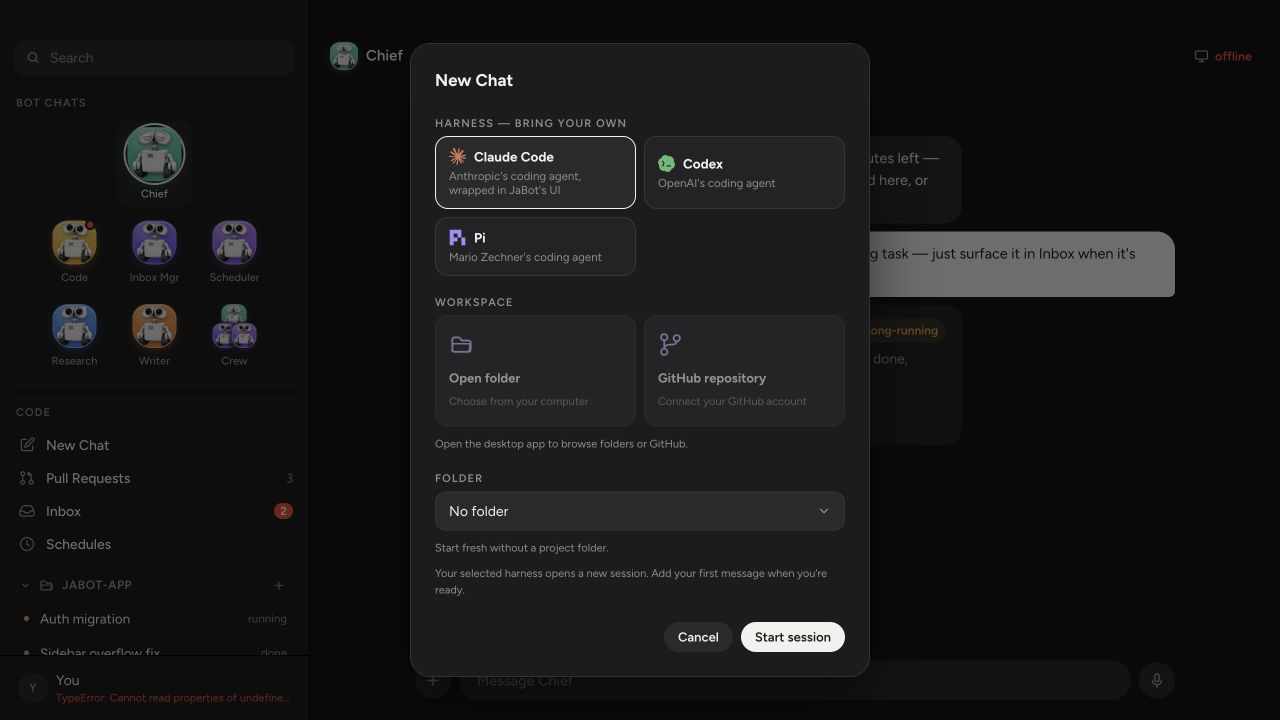
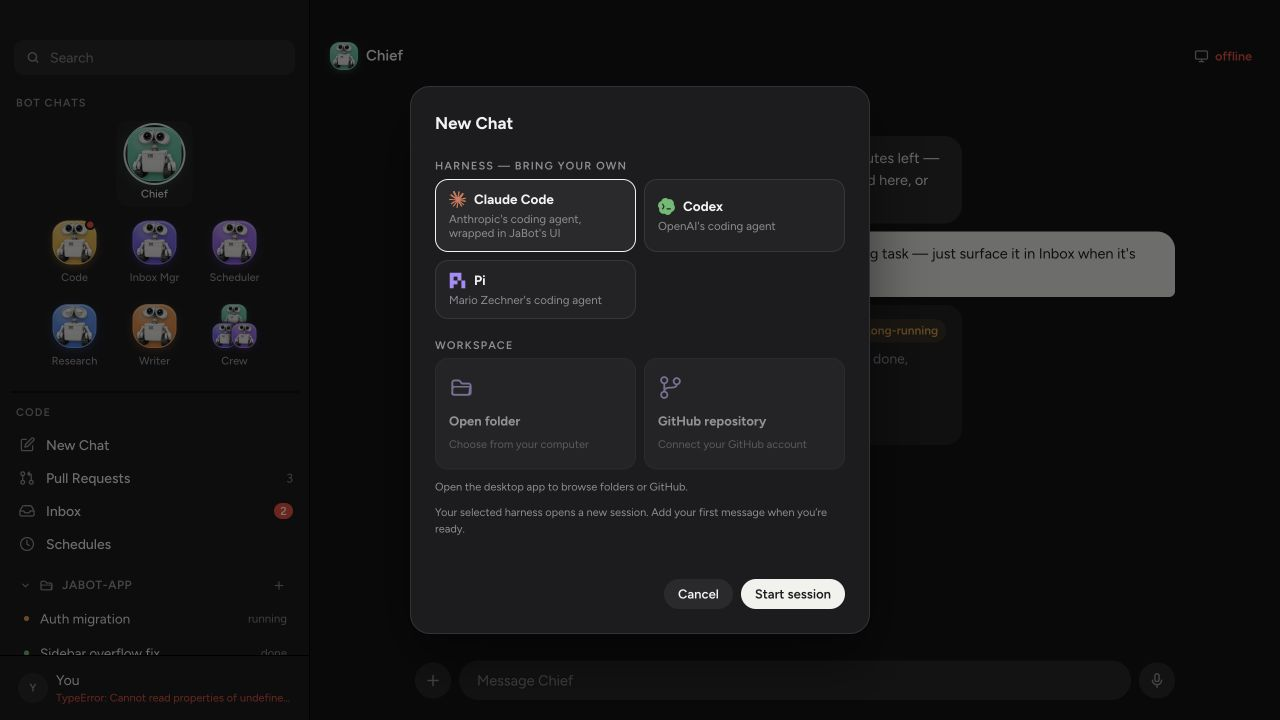
Keep workspace selection in one place

diff --git a/src/__tests__/new-chat-modal.test.tsx b/src/__tests__/new-chat-modal.test.tsx
@@ -3,7 +3,7 @@
  * default to something, report the exact id the host will resolve, and be
  * honest about a harness the machine does not have.
  */
-import { render, screen, within } from "@testing-library/react";
+import { render, screen } from "@testing-library/react";
 import userEvent from "@testing-library/user-event";
 import { describe, expect, it, vi } from "vitest";
 
@@ -112,37 +112,38 @@ describe("NewChatModal", () => {
     ).toBeInTheDocument();
   });
 
-  /** FOLDER is a custom listbox (`Select.tsx`), not a native <select> — the
-      browser's own popup will not take the rounded-menu shape the rest of
-      the modal uses. */
-  it("picks a folder from the custom dropdown", async () => {
-    const props = renderModal();
+  it("does not offer a second folder dropdown", () => {
+    renderModal();
+    expect(screen.queryByLabelText("FOLDER")).toBeNull();
+    expect(screen.queryByRole("combobox")).toBeNull();
+    expect(screen.queryByRole("button", { name: "No folder" })).toBeNull();
+    expect(
+      screen.queryByRole("group", { name: "Selected workspace" }),
+    ).toBeNull();
+  });
 
-    await userEvent.click(screen.getByLabelText("FOLDER"));
-    const menu = screen.getByRole("listbox");
+  it("shows the chosen workspace and lets it be removed", async () => {
+    const props = renderModal({ defaultFolderId: "jabot-app" });
+    expect(
+      screen.getByRole("group", { name: "Selected workspace" }),
+    ).toHaveTextContent("~/code/jabot-app");
+    await userEvent.click(screen.getByRole("button", { name: "Advanced" }));
+    await userEvent.type(screen.getByLabelText("BASE BRANCH"), "release/2.0");
     await userEvent.click(
-      within(menu).getByRole("option", { name: "globnet-sync" }),
+      screen.getByRole("button", { name: "Remove selected workspace" }),
     );
+    expect(
+      screen.queryByRole("group", { name: "Selected workspace" }),
+    ).toBeNull();
+    expect(screen.queryByRole("button", { name: "Advanced" })).toBeNull();
     await userEvent.click(
       screen.getByRole("button", { name: "Start session" }),
     );
-
-    expect(props.onStart).toHaveBeenCalledWith(
-      expect.objectContaining({ folderId: "globnet-sync" }),
-    );
-  });
-
-  it("closes just the dropdown on Escape, not the whole card", async () => {
-    const props = renderModal({ defaultFolderId: "jabot-app" });
-
-    await userEvent.click(screen.getByLabelText("FOLDER"));
-    expect(screen.getByRole("listbox")).toBeInTheDocument();
-
-    await userEvent.keyboard("{Escape}");
-
-    expect(screen.queryByRole("listbox")).toBeNull();
-    expect(screen.getByLabelText("FOLDER")).toHaveTextContent("jabot-app");
-    expect(props.onCancel).not.toHaveBeenCalled();
+    expect(props.onStart).toHaveBeenCalledWith({
+      harnessId: "claude",
+      folderId: null,
+      task: "Untitled session",
+    });
   });
 
   it("closes on Escape without starting anything", async () => {
@@ -307,7 +308,9 @@ describe("workspace entry points", () => {
     };
     renderModal({ workspaceActions, defaultFolderId: "jabot-app" });
     await userEvent.click(screen.getByRole("button", { name: /Open folder/ }));
-    expect(screen.getByLabelText("FOLDER")).toHaveTextContent("jabot-app");
+    expect(
+      screen.getByRole("group", { name: "Selected workspace" }),
+    ).toHaveTextContent("jabot-app");
   });
   it("shows clone failures and keeps the repository available for retry", async () => {
     const workspaceActions = {

diff --git a/src/components/WorkspacePicker.tsx b/src/components/WorkspacePicker.tsx
@@ -1,7 +1,6 @@
 import { useState } from "react";
 import { FolderIcon } from "./Icon";
 import { FieldLabel } from "./Modal";
-import { Select } from "./Select";
 import type { Folder } from "./types";
 
 export interface Repository {
@@ -18,7 +17,6 @@ export interface WorkspaceActions {
 }
 
 export function WorkspacePicker({
-  id,
   folders,
   value,
   onChange,
@@ -26,7 +24,6 @@ export function WorkspacePicker({
   busy,
   run,
 }: {
-  id: string;
   folders: readonly Folder[];
   value: string;
   onChange: (id: string) => void;
@@ -34,6 +31,7 @@ export function WorkspacePicker({
   busy: boolean;
   run: (action: () => Promise<void>) => Promise<void>;
 }) {
+  const selected = folders.find((folder) => folder.id === value);
   const [showRepos, setShowRepos] = useState(false);
   const [repos, setRepos] = useState<Repository[]>([]);
   const [page, setPage] = useState(0);
@@ -168,24 +166,28 @@ export function WorkspacePicker({
           )}
         </div>
       )}
-      <FieldLabel htmlFor={id}>FOLDER</FieldLabel>
-      <Select
-        id={id}
-        value={value}
-        onChange={onChange}
-        options={[
-          ...folders.map((folder) => ({
-            value: folder.id,
-            label: folder.name,
-          })),
-          { value: "", label: "No folder" },
-        ]}
-      />
-      <p className="workspace-hint">
-        {value
-          ? folders.find((folder) => folder.id === value)?.path
-          : "Start fresh without a project folder."}
-      </p>
+      {selected && (
+        <div
+          className="workspace-selection"
+          role="group"
+          aria-label="Selected workspace"
+        >
+          <FolderIcon open />
+          <div>
+            <strong>{selected.name}</strong>
+            <span>{selected.path}</span>
+          </div>
+          <button
+            type="button"
+            className="btn"
+            disabled={busy}
+            aria-label="Remove selected workspace"
+            onClick={() => onChange("")}
+          >
+            Remove
+          </button>
+        </div>
+      )}
     </>
   );
 }

diff --git a/src/styles/modal.css b/src/styles/modal.css
@@ -609,3 +609,35 @@
 .workspace-repo-list button:disabled {
   opacity: 0.5;
 }
+
+.workspace-selection {
+  display: flex;
+  align-items: center;
+  gap: 10px;
+  padding: 12px 0;
+  margin-top: 10px;
+  border-top: 1px solid var(--edge-strong);
+}
+.workspace-selection > svg {
+  width: 20px;
+  height: 20px;
+  flex-shrink: 0;
+  color: var(--faint);
+}
+.workspace-selection > div {
+  flex: 1;
+  min-width: 0;
+}
+.workspace-selection strong {
+  display: block;
+  font-size: 13px;
+}
+.workspace-selection span {
+  display: block;
+  color: var(--faint);
+  font-size: 11px;
+  overflow-wrap: anywhere;
+}
+.workspace-selection .btn {
+  flex-shrink: 0;
+}

diff --git a/src/components/NewChatModal.tsx b/src/components/NewChatModal.tsx
@@ -41,7 +41,6 @@ export function NewChatModal({
   onStart: (draft: NewChatDraft) => void | Promise<void>;
   onCancel: () => void;
 }) {
-  const folderId = useId();
   const checkoutId = useId();
   const baseRefId = useId();
   const [harnessId, setHarnessId] = useState(
@@ -85,7 +84,6 @@ export function NewChatModal({
       />
 
       <WorkspacePicker
-        id={folderId}
         folders={folders}
         value={folder}
         onChange={setFolder}

diff --git a/docs/img/new-chat-workspace/README.md b/docs/img/new-chat-workspace/README.md
@@ -3,3 +3,5 @@
 `new-chat.png` is a real screenshot of the Vite app at localhost:1420. The browser preview disables native folder and GitHub actions; those are available in the desktop host. The prompt field has been removed, and the chosen harness opens a blank session.
 
 Coverage includes native-chooser cancellation, repository selection, clone errors/retry, sign-in routing, and real host session creation without an initial prompt. The desktop commands use the existing GitHub CLI authentication, paginated repository listing, and a bounded clone process.
+
+The workspace sources are now the only selection controls: there is no second folder dropdown. `selected-workspace.png` shows the chosen folder's name and path with a Remove action; removing it returns the modal to the empty workspace state and hides Advanced controls.
